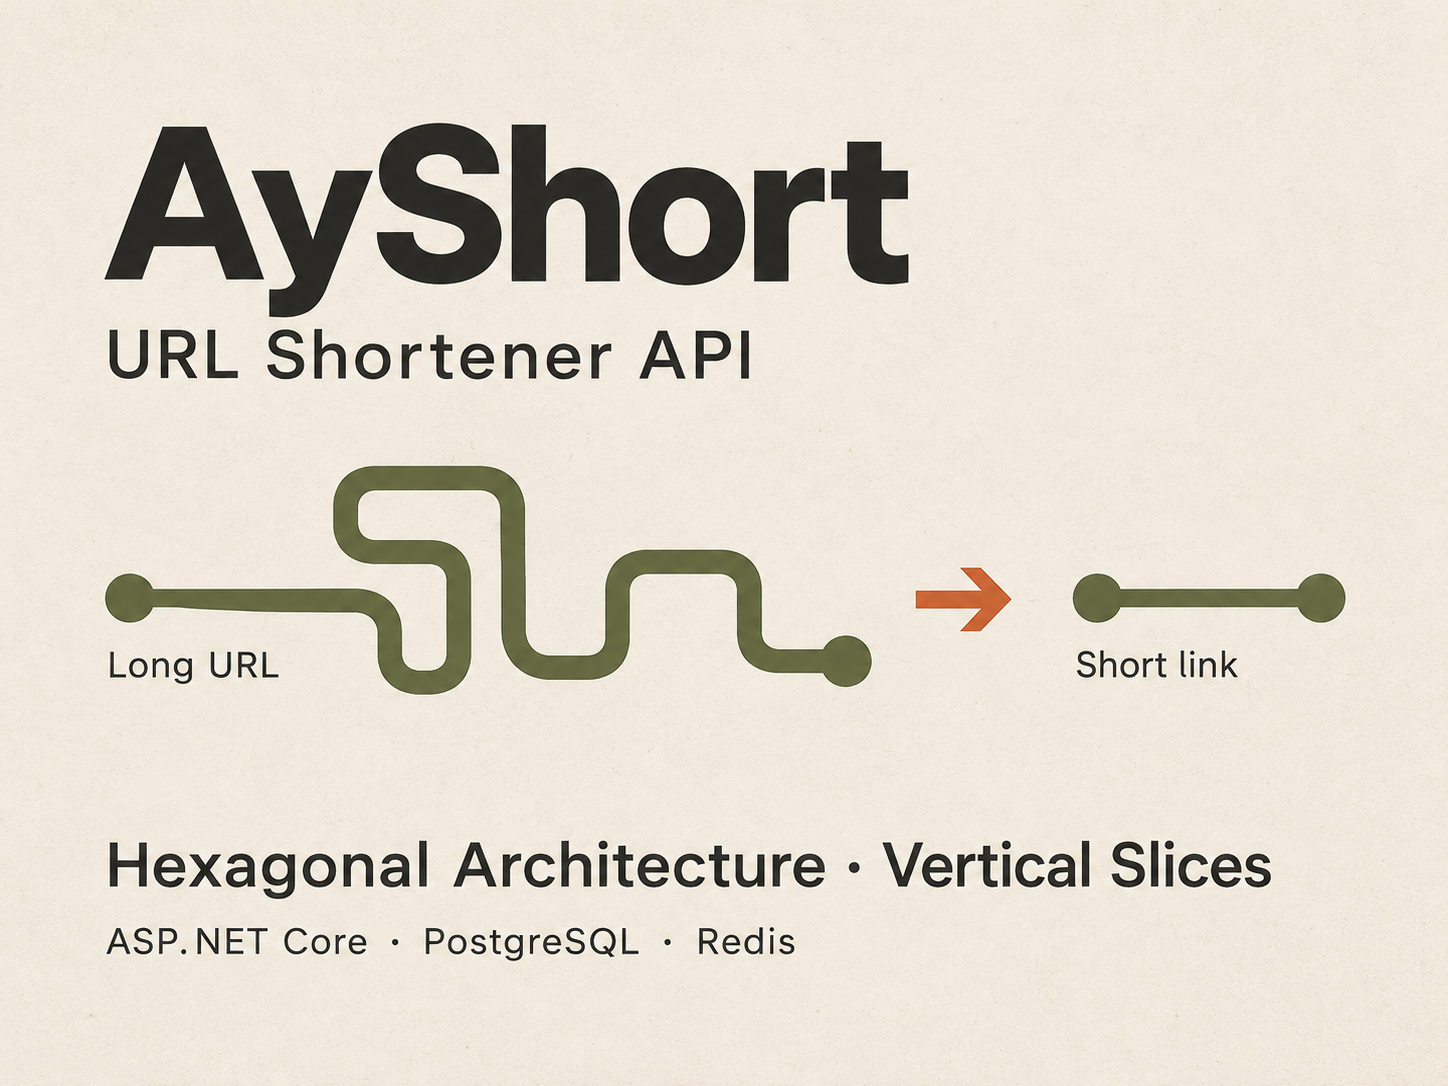
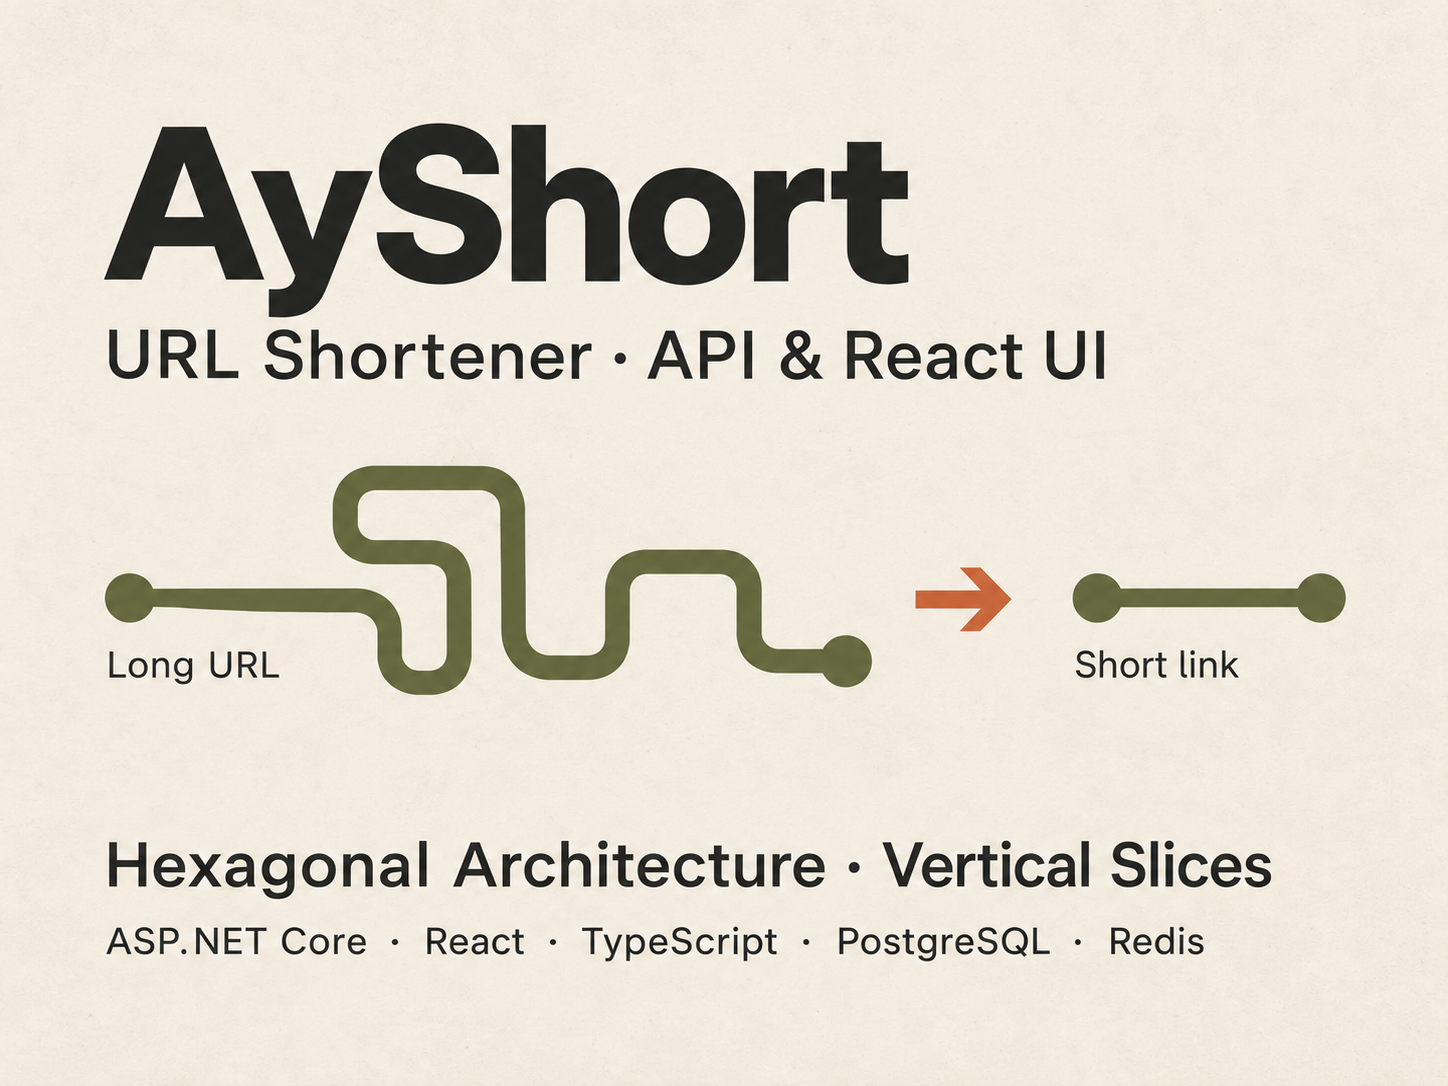
feat(frontend): copy generated short links with feedback

diff --git a/frontend/src/App.tsx b/frontend/src/App.tsx
@@ -1,4 +1,4 @@
-import { useState } from 'react'
+import { useRef, useState } from 'react'
 import type { FormEvent } from 'react'
 import { createShortLink, LinkApiError } from './api/links'
 import type { CreateShortUrlResult } from './api/links'
@@ -8,12 +8,33 @@ function App() {
   const [result, setResult] = useState<CreateShortUrlResult | null>(null)
   const [isSubmitting, setIsSubmitting] = useState(false)
   const [error, setError] = useState<LinkApiError | null>(null)
+  const [copyStatus, setCopyStatus] = useState<'idle' | 'copying' | 'copied' | 'error'>('idle')
+  const copyAttempt = useRef(0)
+
+  async function handleCopy() {
+    if (!result || copyStatus === 'copying') return
+
+    const attempt = ++copyAttempt.current
+    setCopyStatus('copying')
+    try {
+      if (!navigator.clipboard?.writeText) {
+        throw new Error('Clipboard unavailable')
+      }
+      await navigator.clipboard.writeText(result.shortUrl)
+      if (attempt === copyAttempt.current) setCopyStatus('copied')
+    } catch {
+      if (attempt === copyAttempt.current) setCopyStatus('error')
+    }
+  }
 
   async function handleSubmit(event: FormEvent<HTMLFormElement>) {
     event.preventDefault()
     if (isSubmitting) return
 
     setIsSubmitting(true)
+    // Ignore a pending copy's feedback once its result is removed.
+    copyAttempt.current += 1
+    setCopyStatus('idle')
     setResult(null)
     setError(null)
     try {
@@ -64,6 +85,28 @@ function App() {
           <a className="mt-2 block break-all text-primary underline underline-offset-4 focus-visible:outline-2 focus-visible:outline-offset-4 focus-visible:outline-focus" href={result.shortUrl}>
             {result.shortUrl}
           </a>
+          <button
+            className="mt-4 inline-flex min-h-11 cursor-pointer items-center gap-2 rounded-lg border border-border px-3 py-2 text-sm font-medium text-primary hover:bg-canvas focus-visible:outline-2 focus-visible:outline-offset-4 focus-visible:outline-focus disabled:cursor-wait disabled:opacity-60"
+            type="button"
+            onClick={handleCopy}
+            disabled={copyStatus === 'copying'}
+          >
+            <svg width="18" height="18" viewBox="0 0 24 24" fill="none" stroke="currentColor" strokeWidth="1.5" aria-hidden="true">
+              {copyStatus === 'copied' ? (
+                <path d="m5 12 4 4L19 6" />
+              ) : (
+                <>
+                  <rect x="8" y="8" width="12" height="12" rx="2" />
+                  <path d="M16 8V6a2 2 0 0 0-2-2H6a2 2 0 0 0-2 2v8a2 2 0 0 0 2 2h2" />
+                </>
+              )}
+            </svg>
+            {copyStatus === 'copying' ? 'Copying…' : copyStatus === 'copied' ? 'Copied!' : 'Copy link'}
+          </button>
+          <p className="mt-2 text-sm" role="status">
+            {copyStatus === 'copied' && 'Short link copied to clipboard.'}
+            {copyStatus === 'error' && 'Could not copy the link. Select the URL above and copy it manually, or try again.'}
+          </p>
         </section>
       )}
     </main>
